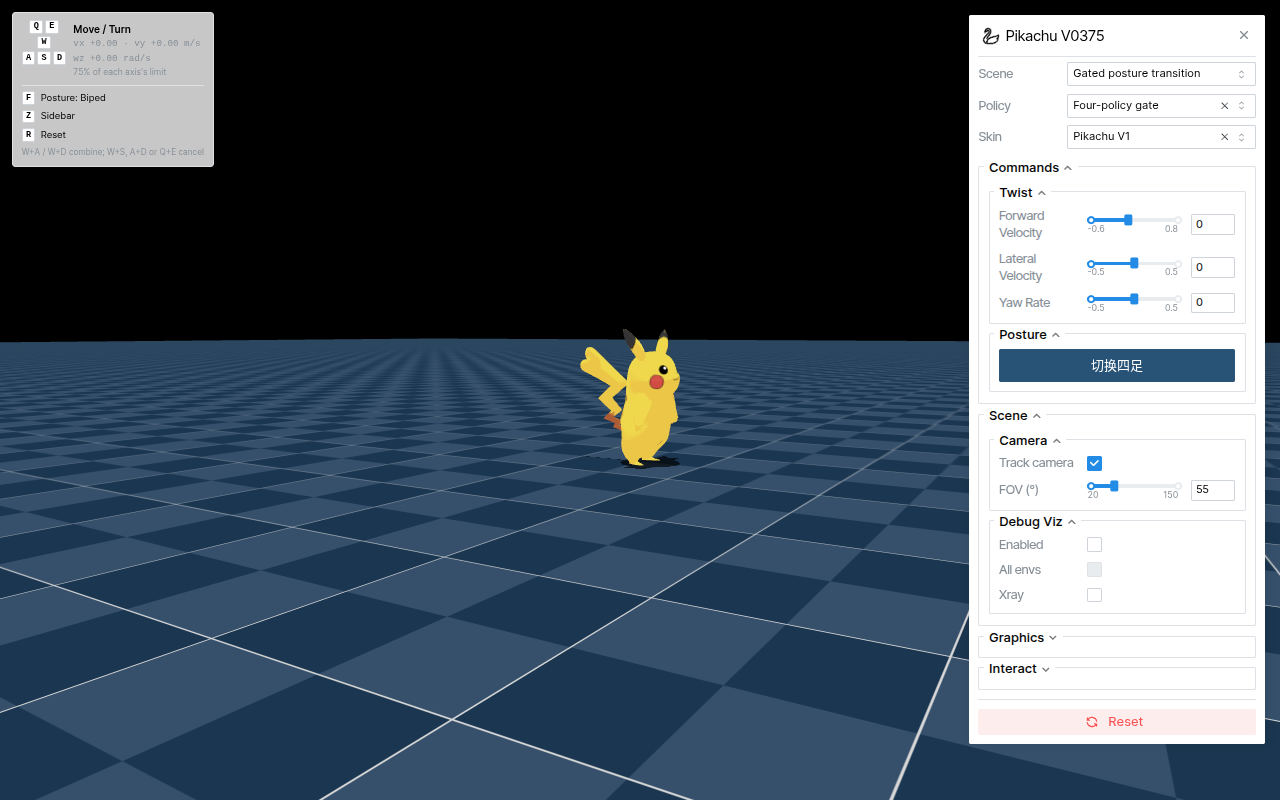
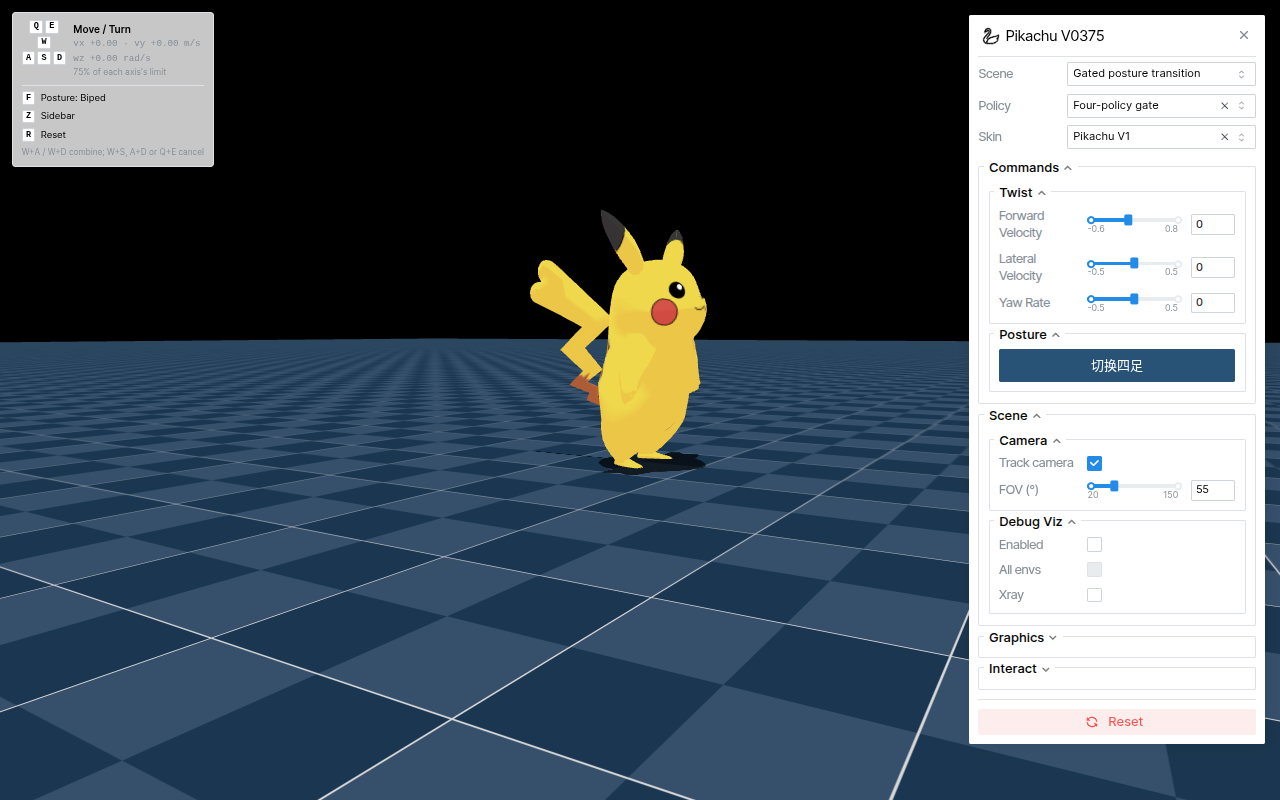
v037: scale the Pikachu V1 suit 1.8x and document its rig
base_commit: 52fb34a5a5e88ad73b104ef3ce3be0d1b5c59a94
spec_read: AGENTS.md, CONVENTIONS.md (workspace); mjswan/AGENTS.md, context/frontend.md, context/skins.md
Validation: the default build generates pikachu/.cache/scaled/pikachu_v1_x1.800.vrm; headless Chrome shows the suit standing and in crawl; the rig and mapping are written up in pikachu/vrm/README.md.

diff --git a/pikachu/browser/avatar_skin.py b/pikachu/browser/avatar_skin.py
@@ -56,8 +56,12 @@ NAMES = {
     "pikachu_v1": "Pikachu V1",
 }
 
-#: Files authored at the robot's own scale, used as they are (no resizing).
-ROBOT_SCALE = frozenset({"pikachu_v1"})
+#: Per-file factors where the authored size is not the wanted one. The hand-made suit
+#: is authored a bit small for the robot; 1.8 was measured by eye against the robot.
+SCALE_FACTORS = {"pikachu_v1": 1.8}
+
+#: Scaled copies live in the ignored cache, so the repo's own skins stay as authored.
+SCALED_DIR = Path(__file__).resolve().parents[1] / ".cache" / "scaled"
 
 
 def _prettify(stem: str) -> str:
@@ -66,8 +70,8 @@ def _prettify(stem: str) -> str:
 
 def scale_for(source: Path) -> float:
     """The factor that puts this avatar's head bone at TARGET_HEAD_HEIGHT."""
-    if source.stem in ROBOT_SCALE:
-        return 1.0
+    if source.stem in SCALE_FACTORS:
+        return SCALE_FACTORS[source.stem]
     skin = read_skin_file(source)
     head = skin.positions(1.0, "+z")[skin.human_bones["head"]]
     return TARGET_HEAD_HEIGHT / float(head[1])
@@ -92,7 +96,8 @@ def scaled_copy(source: Path, factor: float) -> Path:
     payload += b" " * (-len(payload) % 4)
     binary = data[20 + json_len :]
     total = 12 + 8 + len(payload) + len(binary)
-    target = source.with_name(f"{source.stem}_x{factor:.3f}{source.suffix}")
+    SCALED_DIR.mkdir(parents=True, exist_ok=True)
+    target = SCALED_DIR / f"{source.stem}_x{factor:.3f}{source.suffix}"
     target.write_bytes(
         struct.pack("<III", magic, version, total)
         + struct.pack("<II", len(payload), 0x4E4F534A)

diff --git a/pikachu/vrm/README.md b/pikachu/vrm/README.md
@@ -1,0 +1,112 @@
+# Pikachu V1 皮套：骨骼与映射
+
+本目录存放仓库自带的皮卡丘皮套 `pikachu_v1.vrm`，以及它接到 V0375 机器人上的骨骼映射
+说明。其它 VRM/GLB 是运行时从 Hugging Face `ttktjmt/mjswan` 下载的，不放在这里
+（`pikachu/.cache/skins/`，git 忽略）。
+
+## 文件
+
+| 项 | 值 |
+| --- | --- |
+| 文件 | `pikachu_v1.vrm`（471 KB） |
+| 格式 | VRM 0.x（glTF 2.0 binary + `VRM` 扩展） |
+| 节点 / 网格 / skin | 61 / 2 / 2 |
+| humanoid 骨骼 | 23 根 |
+| 元数据 | `title`/`author` 为占位 `1`，`licenseName: Other`，`allowedUserName: Everyone` |
+
+原始尺寸（1.0×，VRM 1.0 帧：y 向上、面向 +z）：
+
+| 骨骼 | 高度/位置（m） |
+| --- | --- |
+| `hips` | y ≈ 0.126 |
+| `head` | y ≈ 0.25 |
+| 最高点（耳朵） | y ≈ 0.459 |
+| 最低点 | y ≈ −0.027 |
+
+## 缩放：构建时 ×1.8
+
+这个皮套是按机器人做的，但相对机器人本体偏小，构建时统一放大 **1.8 倍**：
+
+- 源文件**不改**；`avatar_skin.py` 的 `SCALE_FACTORS = {"pikachu_v1": 1.8}` 会把缩放写到
+  骨架根节点的 `scale` 上，生成副本：
+  `pikachu/.cache/scaled/pikachu_v1_x1.800.vrm`（git 忽略）；
+- 生成物仍是合法 VRM（three-vrm、mjswan 都能读）；
+- 缩放后整体约 **0.83 m 高**，`head` 约 0.45 m；
+- 想再调，改 `SCALE_FACTORS` 的数值即可；或者在 Blender 里把模型缩放到目标尺寸后重新
+  导出覆盖 `pikachu_v1.vrm`，并把该文件从 `SCALE_FACTORS` 移除。
+
+`height_ratio` 不手动设：皮肤根高度按“角色胯高 / 机器人根高”自动算，缩放后会跟着变。
+
+## humanoid 骨骼清单（VRM 0.x 名称 → 文件节点）
+
+| VRM 骨骼 | 节点 | 是否映射 |
+| --- | --- | --- |
+| `hips` | `Hips` | ✅ |
+| `spine` | `Spine` | ✅ |
+| `chest` | `Chest` | ✅ |
+| `neck` | `Neck` | ✅ |
+| `head` | `Head` | ✅ |
+| `leftShoulder` | `Left shoulder` | —（保持 rest） |
+| `leftUpperArm` | `Left arm` | ✅ |
+| `leftLowerArm` | `Left elbow` | ✅ |
+| `leftHand` | `Left wrist` | ✅ |
+| `leftUpperLeg` | `Left leg` | ✅ |
+| `leftLowerLeg` | `Left knee` | ✅ |
+| `leftFoot` | `Left ankle` | ✅ |
+| `leftToes` | `Left toe` | —（机器人没有脚趾） |
+| `rightShoulder` | `Right shoulder` | — |
+| `rightUpperArm` | `Right arm` | ✅ |
+| `rightLowerArm` | `Right elbow` | ✅ |
+| `rightHand` | `Right wrist` | ✅ |
+| `rightUpperLeg` | `Right leg` | ✅ |
+| `rightLowerLeg` | `Right knee` | ✅ |
+| `rightFoot` | `Right ankle` | ✅ |
+| `rightToes` | `Right toe` | — |
+| `leftEye` | `Ear1_L` | —（这个皮套把眼睛骨骼指到耳朵，不参与驱动） |
+| `rightEye` | `Ear1_R` | — |
+
+## 映射到机器人（`PIKACHU_BONES`）
+
+规则：**根骨骼负责位置；每根骨骼映射到“能带上它全部旋转”的最深机器人 link**。皮卡丘
+机器人没有躯干、腕和脚趾关节，所以：
+
+| VRM 骨骼 | 机器人 body | 理由 |
+| --- | --- | --- |
+| `hips` / `spine` / `chest` / `neck` | `base_link` | 没有脊柱关节，躯干整体跟 base |
+| `head` | `head_yaw_link` | 取 head_pitch + roll + yaw 的合成旋转 |
+| `leftUpperArm` / `rightUpperArm` | `arm_yaw_link` | 肩上 pitch/roll/yaw 三段的合成 |
+| `leftLowerArm` / `rightLowerArm` | `elbow_link` | 肘关节 |
+| `leftHand` / `rightHand` | `elbow_link` | 没有腕关节，手跟随小臂 |
+| `leftUpperLeg` / `rightUpperLeg` | `hip_yaw_link` | 髋三段（pitch/roll/yaw）的合成 |
+| `leftLowerLeg` / `rightLowerLeg` | `knee_link` | 膝关节 |
+| `leftFoot` / `rightFoot` | `ankle_link` | 踝关节；没有脚趾 |
+
+- `rest_pose`：皮卡丘零位就是 T-pose（手臂水平），所以不写（= 零位）；
+- `retarget`：默认 `hybrid`（保持角色比例，两骨 IK 把手/脚拉到机器人位置）；
+- `hide_robot`：默认 True，皮套显示时隐藏机器人；`?xray=1` 可透视检查对齐。
+
+## 构建与检查
+
+```sh
+cd mjswan
+
+# 默认构建就会挂上 Pikachu V1（--no-skin 可关闭）
+uv run --project ../mjlab python -m pikachu.browser.main --build-only
+
+uv run --project ../mjlab python -m pikachu.browser.main --no-build \
+  --port 8080 --no-open
+```
+
+- 菜单名 **Pikachu V1**，URL `?skin=pikachu_v1`；
+- 默认场景是 **Gated posture transition**；
+- 想同时加载云端皮套：追加 `--skin pikachu/.cache/skins`。
+
+## 修改这个皮套的建议流程
+
+1. 在 Blender 里打开/编辑模型（保持 VRM humanoid 骨骼命名与 T-pose）；
+2. 缩放需求优先在 Blender 里直接做好，然后从 `SCALE_FACTORS` 移除 `pikachu_v1`；
+3. 导出 VRM 0.x（或 1.0）覆盖 `pikachu/vrm/pikachu_v1.vrm`；
+4. 重新构建，看站姿、走路、crawl 和 `?xray=1` 对齐；
+5. 如果骨骼名字变了，同步更新 `avatar_skin.py` 的 `PIKACHU_BONES` 和本文档。
+
+更完整的 VRM 格式与制作流程见 `../doc/vrm_skin_guide_20261126.md`。

diff --git a/pikachu/doc/vrm_skin_guide_20261126.md b/pikachu/doc/vrm_skin_guide_20261126.md
@@ -143,15 +143,19 @@
 
 ### 1.8 自建皮卡丘皮套 `pikachu_v1`
 
-`pikachu/vrm/pikachu_v1.vrm` 是仓库内的自建皮卡丘皮套（VRM 0.x，471 KB），
-本身就是**机器人尺度**（头顶约 0.25 m、最高 0.46 m），所以不做缩放：`avatar_skin.py` 的
-`ROBOT_SCALE` 里的文件按原尺寸使用，不会生成 `_x*.vrm` 副本。
+`pikachu/vrm/pikachu_v1.vrm` 是仓库内的自建皮卡丘皮套（VRM 0.x，471 KB）。
+原始模型相对机器人偏小（头顶约 0.25 m、最高 0.46 m），构建时放大 **1.8 倍**：
+`avatar_skin.py` 的 `SCALE_FACTORS = {"pikachu_v1": 1.8}` 会把缩放写到骨架根节点，
+生成副本 `pikachu/.cache/scaled/pikachu_v1_x1.800.vrm`（git 忽略），源文件不改。
+放大后整体约 0.83 m 高。骨骼清单、逐骨映射和调参流程见
+[`pikachu/vrm/README.md`](../vrm/README.md)。
 
 ![皮卡丘皮套（biped）](assets/skins/pikachu_v1_biped.png)
 ![皮卡丘皮套（crawl）](assets/skins/pikachu_v1_crawl.png)
 
 - 菜单名 **Pikachu V1**，URL `?skin=pikachu_v1`；
 - 骨骼仍走 `PIKACHU_BONES`（hips→base、头→head_yaw、手臂/腿取最深 link）；
+- 缩放系数只影响皮套显示，不改源文件；改 `SCALE_FACTORS` 或重新导出 VRM 即可；
 - `python -m pikachu.browser.main` 默认就会挂上它（`--no-skin` 可关闭）；
   额外加载云端皮套再传 `--skin pikachu/.cache/skins`。
 
